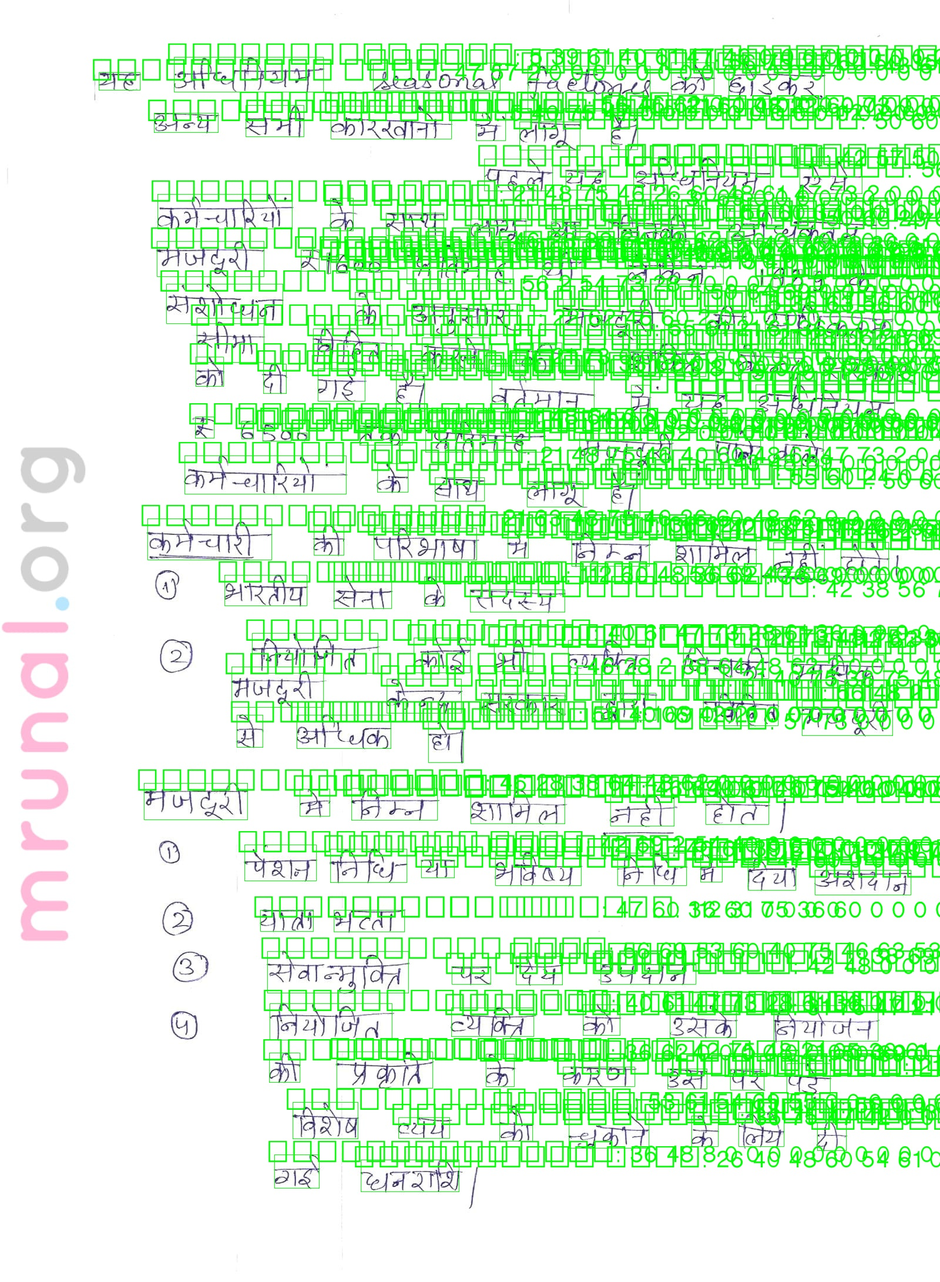
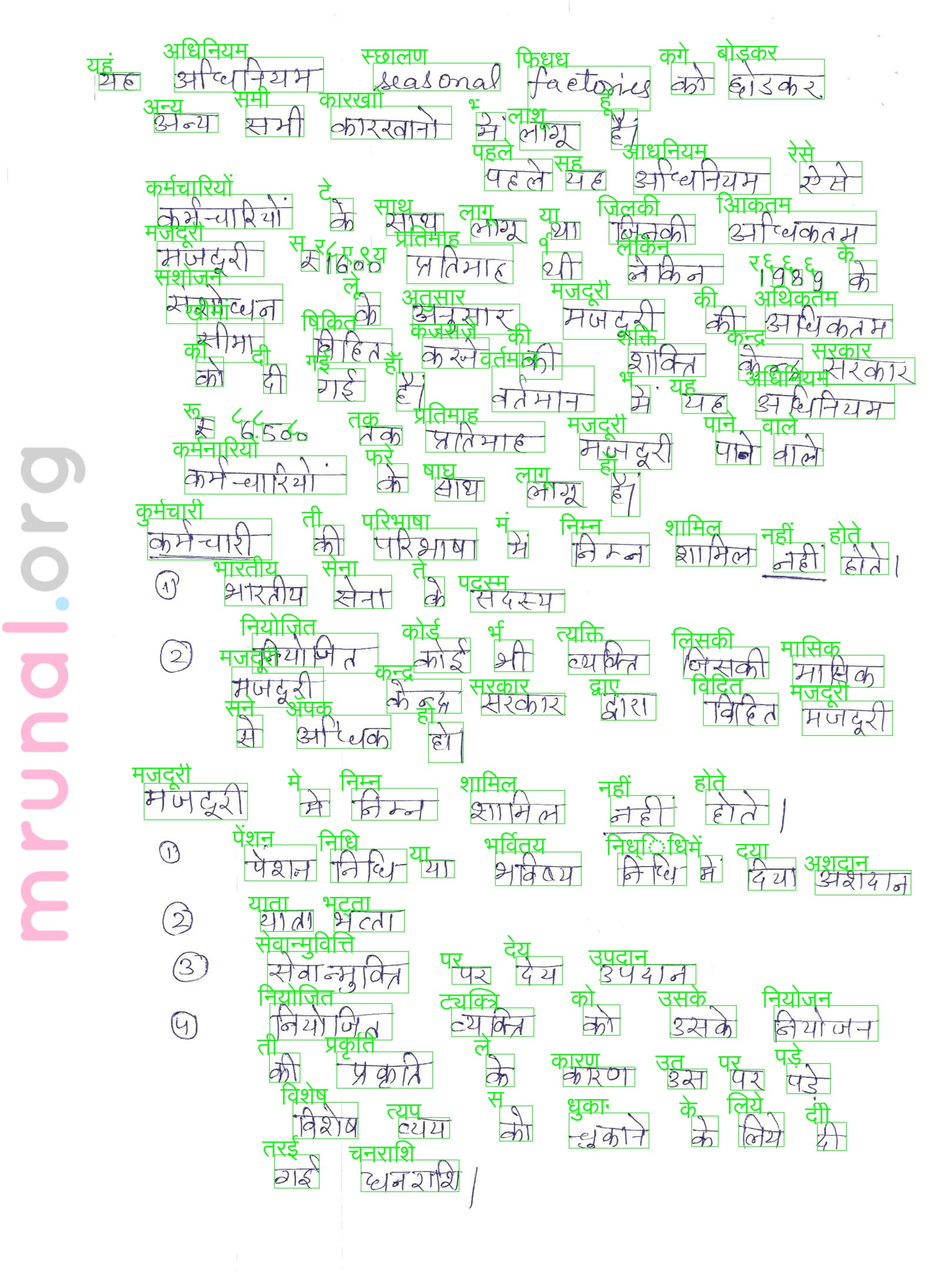
update

Changed region(s): [[0.0938, 0.0312, 1.0, 0.9354]]

diff --git a/word_recognition/draw_text.py b/word_recognition/draw_text.py
@@ -58,7 +58,7 @@ def annotate(number):
 			#cv2.putText(img,word,(x1, y1), font, 0.5, (255,0,0), 1, cv2.LINE_AA)
 			img_pil = Image.fromarray(img)
 			draw = ImageDraw.Draw(img_pil)
-			draw.text((x1-15, y1-30),  word, font = font, fill = (0, 255, 0))
+			draw.text((x1-20, y1-40),  word, font = font, fill = (0, 255, 0))
 			img = np.array(img_pil)
 
 	cv2.imwrite('final_out{}.jpg'.format(number), img)
@@ -67,8 +67,8 @@ def annotate(number):
 #annotate(1)
 #annotate(2)
 #annotate(3)
-#annotate(4)
-#annotate(5)
+annotate(4)
+annotate(5)
 annotate(6)
-annotate(7)
+#annotate(7)
 
